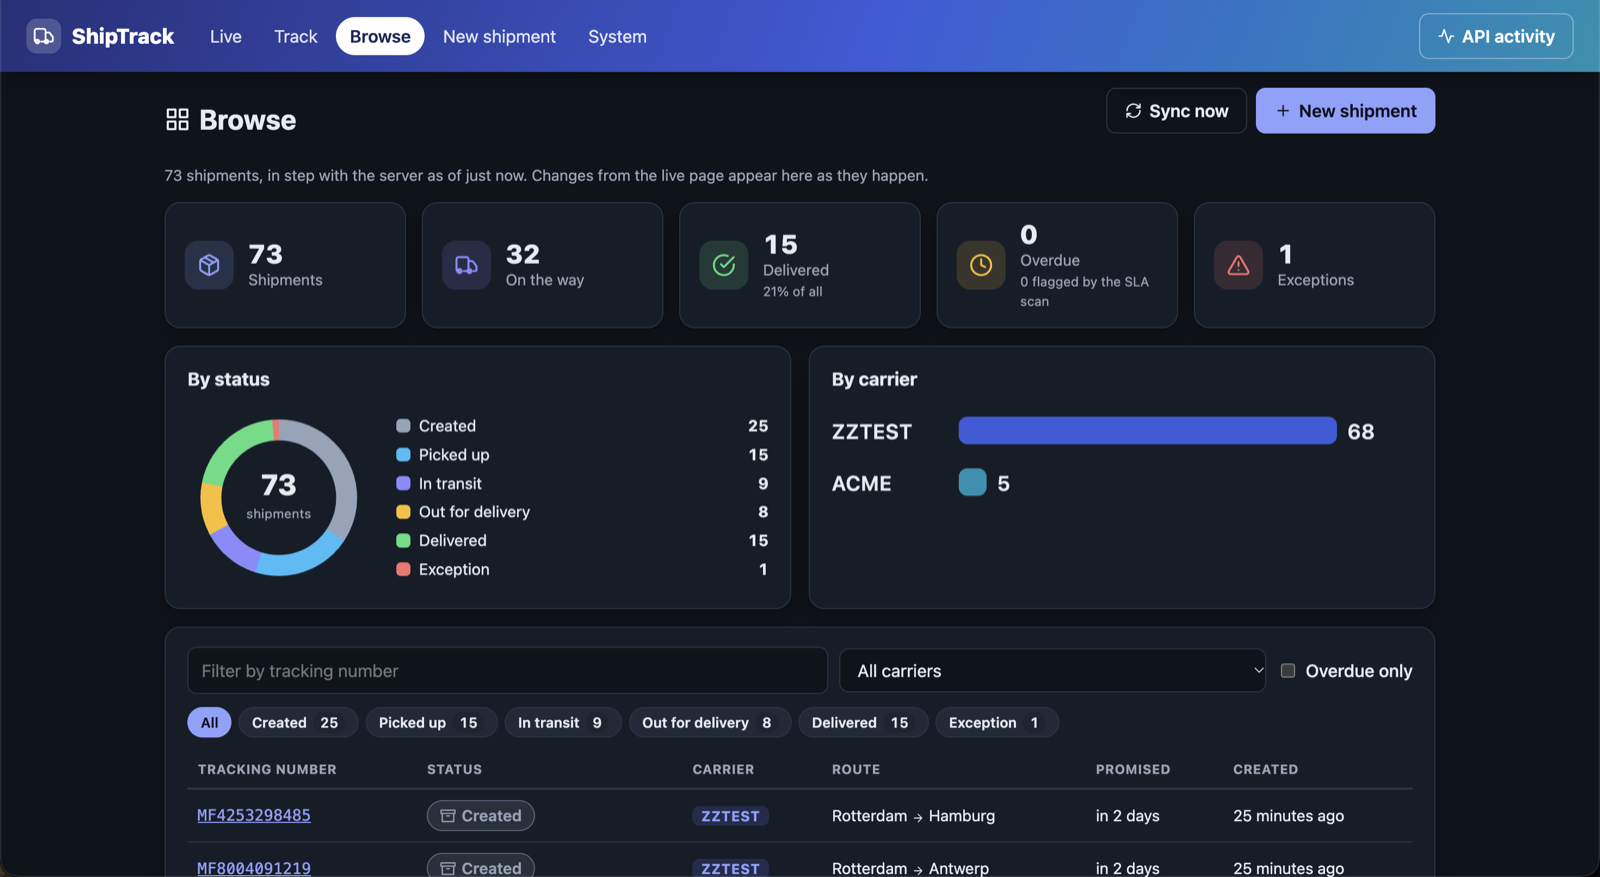
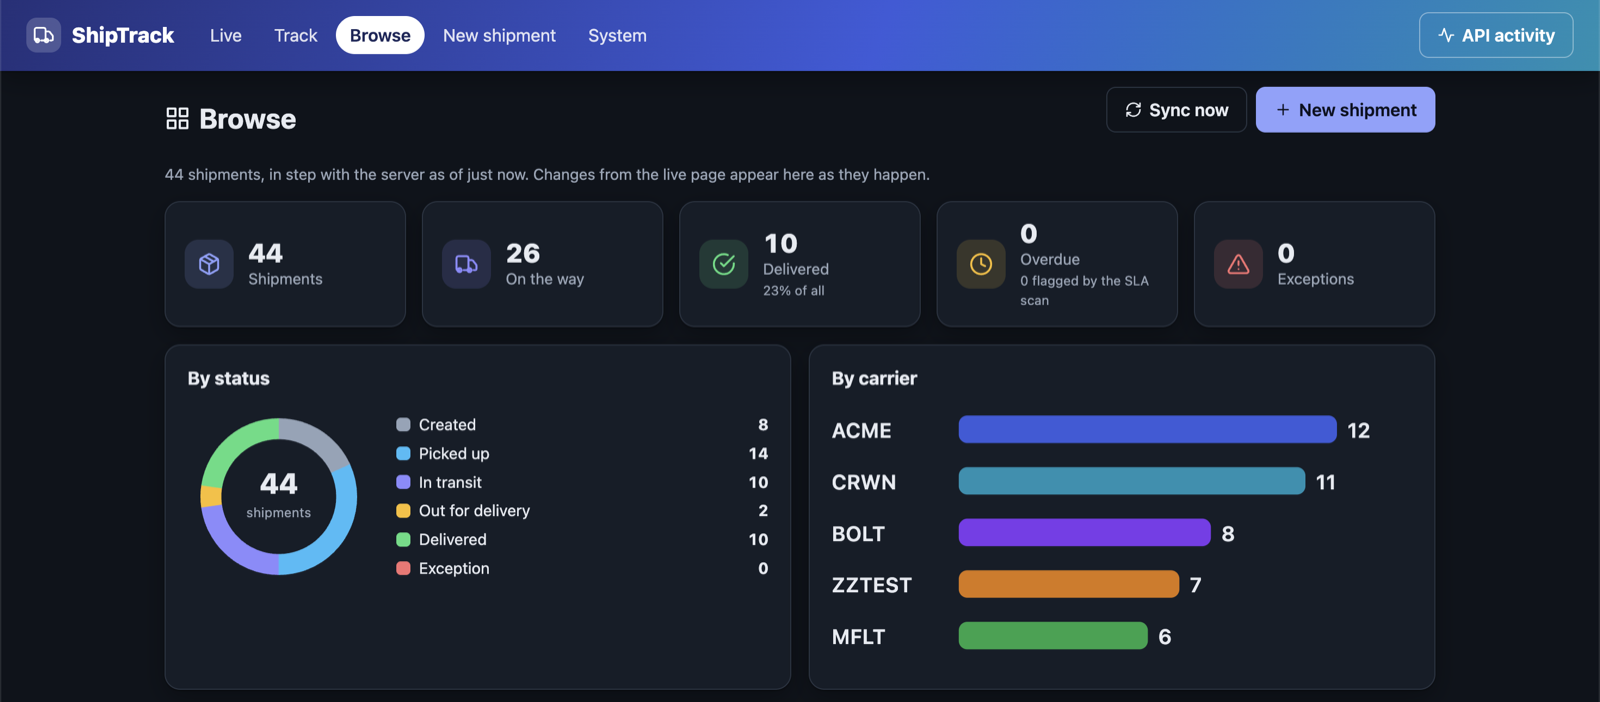
Replace the README screenshots with eight of the current UI (#46)
Live (board, controls and tiles, charts and feed), Track, Browse (summary and
table), New shipment, and System, resized to 1600 px wide. The README's UI
section is organised by page. They show no address bar or host name, and every
tracking number is synthetic.

diff --git a/README.md b/README.md
@@ -32,23 +32,55 @@ additions (design §1). The UI in `web/` is modern's own and is no longer held t
 ## The UI
 
 Modern's UI is its own (ADR-0024). It drives synthetic traffic through the public API from the
-browser, so the pages move as the answers arrive (ADR-0025, ADR-0026).
+browser, so the pages move as the answers arrive (ADR-0025, ADR-0026). Shipments are spread across
+the five seeded carriers (ADR-0028).
 
-**Live traffic.** Shipments move through their statuses as events are accepted and then applied.
+### Live traffic
 
-![The live traffic page: a board of shipments by status, with the traffic controls and the request, success, latency, and apply-lag tiles](docs/images/ui-live.png)
+Shipments move through their statuses as events are accepted and then applied. A pulsing chip has an
+event the API accepted that the shipment does not show yet.
 
-The same page below the fold: throughput, latency, where the shipments are, and the feed of each call.
+![The Live page: a board of shipments by status, each column with its count and tracking-number chips](docs/images/ui-live-board.png)
 
-![The live traffic page's throughput and latency charts, the shipments-by-status donut, and the live feed of accepted and applied events](docs/images/ui-live-charts.png)
+The controls start and stop the traffic, set the rate, and reset the counters. The tiles show requests
+per second, success, latency, shipments created, events applied, and the lag from a `202` to the event
+showing.
 
-**Browse.** Every shipment, in step with the server, with counts by status and carrier and filters.
+![The Live page's controls and six tiles: requests per second, success, latency p50 and p95, shipments created, events applied and sent, and apply lag](docs/images/ui-live-controls.png)
 
-![The Browse page: totals, a status donut, shipments by carrier, and a filterable table of shipments](docs/images/ui-browse.png)
+Throughput and latency per second, where the shipments are, and a feed of every call as it is made.
 
-**Track.** The original lookup, the five newest shipments as quick links (ADR-0029), and links to the other pages. The footer names the stack that served it.
+![The Live page's throughput and latency charts, the shipments-by-status donut, and the live feed of accepted and applied events](docs/images/ui-live-charts.png)
 
-![The Track page: a tracking number field, recent lookups, and cards linking to Live, Browse, New shipment, and System](docs/images/ui-track.png)
+### Track
+
+The lookup, with the five newest shipments as quick links (ADR-0029) and links to the other pages. The
+footer names the stack that served it.
+
+![The Track page: a tracking number field, the five newest shipments, and cards linking to Live, Browse, New shipment, and System](docs/images/ui-track.png)
+
+### Browse
+
+Every shipment, in step with the server, with totals, a status donut, and shipments by carrier.
+
+![The Browse page: totals, a status donut, and shipments by carrier](docs/images/ui-browse.png)
+
+The table filters by tracking number, carrier, status, and overdue, and links to each shipment.
+
+![The Browse page's filter bar and table of shipments with status, carrier, route, promised, and created](docs/images/ui-browse-table.png)
+
+### New shipment
+
+Creates one shipment with `POST /api/v1/shipments`. The tracking number comes back from the server.
+
+![The New shipment form: carrier code, origin, destination, and promised delivery](docs/images/ui-new-shipment.png)
+
+### System
+
+Readiness, the stack that answered, call totals for the session, and an API explorer. The activity
+panel on the right lists every call the page has made, from any page.
+
+![The System page: readiness, stack, latency, call totals, an API explorer, and the API activity panel listing recent calls](docs/images/ui-system.png)
 
 ## Layout
 
